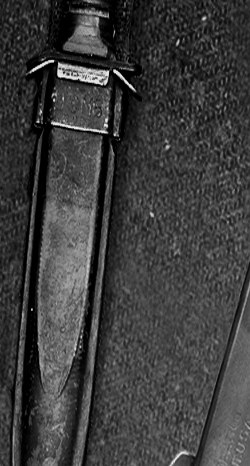
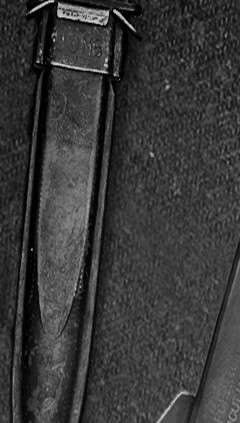
home screen: cleaner - flat ground, quiet photo details, one type block per card
No painting behind the cards any more (flat black; the photos are the only texture),
crops that show a detail with room around it (the grip, the helmet's curve, the
scabbard) instead of the whole object, one margin for everything (64 px at 1080p),
the type bottom-left of each card with an index top-left, a rule that grows under
the title on hover - no lift, no ticks, no icons, no description lines. Player as
plain text, the news as one line under the top rule, links and shortcuts in the
footer.

diff --git a/src/ui/home_menu.cpp b/src/ui/home_menu.cpp
@@ -9,10 +9,11 @@
 // screens take over, and this screen returns when they close). QUIT is our own
 // confirmation, then `quit`.
 //
-// Art: <game dir>\cod1reloaded\home\{bg,play,host,settings}.jpg - crops of the
-// game's own main-menu painting (pak0 ui/assets/main_back.tga: the Thompson, the
-// helmet, the first-aid pouch), desaturated. Every image is optional: a missing
-// file leaves a flat panel, nothing breaks.
+// Art: <game dir>\cod1reloaded\home\{play,host,settings}.jpg - quiet details cut
+// from the game's own main-menu painting (pak0 ui/assets/main_back.tga: the Thompson's
+// grip, the helmet's curve, the scabbard), desaturated. Every image is optional: a
+// missing file leaves a flat panel, nothing breaks. The ground is flat black - the
+// photos are the only texture on the screen.
 //
 // RESPONSIVE: one scale factor s = height / 1080 (height, not width: 1440x1080
 // stretched and 1920x1080 share it, so type and spacing stay identical between
@@ -123,93 +124,54 @@ void vgrad(float x, float y, float w, float h, float a1, int rows = 24) {
 
 // Small bordered key hint, e.g. [ CTRL+M ] label
 float keycap(float x, float y, const char* key, const char* label, float s) {
-    const float pad = 9 * s, h = 24 * s;
-    float kw = ui_text_width(px(12, s), 600, key) + pad * 2;
-    ui_rect_rounded(x, y, kw, h, 4 * s, 0xFF141414);
-    ui_rect_border(x, y, kw, h, 4 * s, 1.0f * s, 0xFF333333);
-    ui_text(x + pad, y + 4 * s, px(12, s), 600, UI_MUTED, key);
+    const float pad = 8 * s, h = 22 * s;
+    float kw = ui_text_width(px(11, s), 600, key) + pad * 2;
+    ui_rect_rounded(x, y, kw, h, 3 * s, 0xFF121212);
+    ui_rect_border(x, y, kw, h, 3 * s, 1.0f * s, 0xFF303030);
+    ui_text(x + pad, y + 3 * s, px(11, s), 600, UI_MUTED, key);
     float total = kw;
     if (label && *label) {
-        text_tracked(x + kw + 10 * s, y + 6 * s, px(11, s), 600, 0xFF6A6A6A, label, 1.6f * s);
-        total += 10 * s + tracked_width(px(11, s), 600, label, 1.6f * s);
+        text_tracked(x + kw + 10 * s, y + 6 * s, px(10, s), 600, 0xFF6A6A6A, label, 1.8f * s);
+        total += 10 * s + tracked_width(px(10, s), 600, label, 1.8f * s);
     }
     return total;
 }
 
-// the three glyphs, geometric and monochrome, drawn inside a thin diamond
-enum Glyph { G_PLAY, G_HOST, G_SETTINGS };
-void diamond(float cx, float cy, float r, float th, DWORD c) {
-    // a thin ring: the primitives have no rotated rectangle, and a ring reads as
-    // the same "marker" at this size
-    ui_ellipse(cx, cy, r, r, th, c);
-}
-void glyph(Glyph g, float cx, float cy, float s, float hv) {
-    const DWORD c = mixc(0xFFBDBDBD, UI_TEXT, hv);
-    const float r = 19 * s;
-    diamond(cx, cy, r, 1.2f * s, with_alpha(c, 0.55f + 0.45f * hv));
-    switch (g) {
-    case G_PLAY:      // a filled point: the objective
-        ui_rect_rounded(cx - 5 * s, cy - 5 * s, 10 * s, 10 * s, 5 * s, c);
-        break;
-    case G_HOST: {    // three bars: a rack
-        const float bw = 14 * s, bh = 2.5f * s;
-        ui_rect(cx - bw / 2, cy - 6 * s, bw, bh, c);
-        ui_rect(cx - bw / 2, cy - bh / 2, bw, bh, c);
-        ui_rect(cx - bw / 2, cy + 6 * s - bh, bw, bh, c);
-        break;
-    }
-    case G_SETTINGS:  // two rings: a dial
-        ui_ellipse(cx, cy, 9 * s, 9 * s, 1.6f * s, c);
-        ui_rect_rounded(cx - 2.5f * s, cy - 2.5f * s, 5 * s, 5 * s, 2.5f * s, c);
-        break;
-    }
-}
-
-// One card. Returns true on click.
-bool card(int idx, float x, float y, float w, float h, const char* img, Glyph g,
-          const char* title, const char* caption, const char* line1, const char* line2,
-          float ot, float s) {
-    // staggered entrance: each card 90 ms after the previous
-    const float delay = idx * 0.09f;
+// One card: a quiet photo detail, an index, one type block bottom-left, a rule that
+// grows under the title on hover. Nothing else. Returns true on click.
+bool card(int idx, float x, float y, float w, float h, const char* img,
+          const char* caption, const char* title, float ot, float s) {
+    // staggered entrance: fade + a short rise, each card 80 ms after the previous
+    const float delay = idx * 0.08f;
     float t = (ot - delay) / (1.0f - delay);
     t = t < 0 ? 0 : (t > 1 ? 1 : t);
     const float ease = t * t * (3 - 2 * t);
-    const float rise = (1 - ease) * 24 * s;
-    y += rise;
+    y += (1 - ease) * 14 * s;
     ui_alpha(ease);
 
     const bool over = hit(x, y, w, h);
-    const float hv = ui_smooth(7200 + idx, over ? 1.0f : 0.0f, 10.0f);
-    // hover: the card lifts a little and breathes
-    const float grow = 6 * s * hv;
-    x -= grow / 2; y -= grow; w += grow; h += grow;
+    const float hv = ui_smooth(7200 + idx, over ? 1.0f : 0.0f, 9.0f);
 
-    // photo (or a flat plate), then the scrim that carries the type
-    bool have = img && ui_image_cover(x, y, w, h, img);
-    if (!have) ui_rect(x, y, w, h, 0xFF101010);
-    ui_rect(x, y, w, h, with_alpha(0xFF000000, 0.42f - 0.30f * hv));      // dim, lifts on hover
-    vgrad(x, y + h * 0.35f, w, h * 0.65f, 0.92f);
-    // frame: hairline, brighter on hover; viewfinder ticks in the corners
-    ui_rect_border(x + 0.5f, y + 0.5f, w - 1, h - 1, 0, 1.0f * s, mixc(0x2EFFFFFF, 0xFFFFFFFF, hv));
-    {
-        const float a = 10 * s, th = 1.5f * s;
-        const DWORD c = mixc(0x70FFFFFF, 0xFFFFFFFF, hv);
-        ui_rect(x, y, a, th, c);                 ui_rect(x, y, th, a, c);
-        ui_rect(x + w - a, y, a, th, c);         ui_rect(x + w - th, y, th, a, c);
-        ui_rect(x, y + h - th, a, th, c);        ui_rect(x, y + h - a, th, a, c);
-        ui_rect(x + w - a, y + h - th, a, th, c); ui_rect(x + w - th, y + h - a, th, a, c);
-    }
-    // type block, anchored to the lower part
-    const float cx = x + w / 2;
-    float ty = y + h * 0.60f;
-    glyph(g, cx, ty, s, hv);
-    ty += 40 * s;
-    text_c(cx, ty, px(30, s), 600, mixc(0xFFE6E6E6, UI_TEXT, hv), title);
-    ty += 42 * s;
-    text_tracked_c(cx, ty, px(11, s), 600, mixc(0xFF8A8A8A, 0xFFC8C8C8, hv), caption, 2.2f * s);
-    ty += 30 * s;
-    text_c(cx, ty, px(13, s), 400, 0xFF7A7A7A, line1);
-    if (line2 && *line2) text_c(cx, ty + 19 * s, px(13, s), 400, 0xFF7A7A7A, line2);
+    if (!(img && ui_image_cover(x, y, w, h, img))) ui_rect(x, y, w, h, 0xFF0E0E0E);
+    ui_rect(x, y, w, h, with_alpha(0xFF000000, 0.55f - 0.35f * hv));   // sits back, lifts on hover
+    vgrad(x, y + h * 0.45f, w, h * 0.55f, 0.95f, 30);
+    ui_rect_border(x + 0.5f, y + 0.5f, w - 1, h - 1, 0, 1.0f * s, mixc(0x24FFFFFF, 0xE0FFFFFF, hv));
+
+    char num[4]; snprintf(num, sizeof(num), "%02d", idx + 1);
+    text_tracked(x + 24 * s, y + 22 * s, px(11, s), 600, mixc(0x50FFFFFF, 0xDFFFFFFF, hv), num, 2.0f * s);
+    text_tracked(x + 24 * s, y + h - 84 * s, px(10, s), 600, mixc(0xFF969696, 0xFFD2D2D2, hv), caption, 2.4f * s);
+    ui_text(x + 24 * s, y + h - 66 * s, px(34, s), 600, UI_TEXT, title);
+    ui_rect(x + 24 * s, y + h - 24 * s, (w - 48 * s) * hv, 1.5f * s, UI_ACCENT);
+    return over && ui_input().clicked;
+}
+
+// a tracked text link with a rule that grows on hover; returns true on click
+bool link(long key, float x, float y, const char* label, float s) {
+    const float lw = tracked_width(px(10, s), 600, label, 1.8f * s);
+    const bool over = hit(x - 8 * s, y - 10 * s, lw + 16 * s, 30 * s);
+    const float hv = ui_smooth(key, over ? 1.f : 0.f, 12.f);
+    text_tracked(x, y, px(10, s), 600, mixc(0xFF6A6A6A, UI_TEXT, hv), label, 1.8f * s);
+    ui_rect(x, y + 17 * s, lw * hv, 1, UI_ACCENT);
     return over && ui_input().clicked;
 }
 
@@ -245,58 +207,60 @@ HomeAction home_menu_draw(float sw, float sh) {
     if (nowt - s_lastdraw > 250) { ui_anim_set(7000, 0.0f); g_confirm_quit = false; }
     s_lastdraw = nowt;
     const float ot = ui_smooth(7000, 1.0f, 4.5f);
+    const float M = 64 * s;                     // one margin for everything
 
-    // ---- ground: the painting, desaturated and pushed back, then a vignette
+    // ---- ground: flat. The photos are the only texture on this screen.
     ui_alpha(1.0f);
-    char path[MAX_PATH];
-    bool have_bg = home_asset("bg.jpg", path, sizeof(path)) && ui_image_cover(0, 0, sw, sh, path);
-    if (!have_bg) ui_rect(0, 0, sw, sh, UI_BG);
-    ui_rect(0, 0, sw, sh, have_bg ? 0x9E000000 : 0x00000000);
-    vgrad(0, sh * 0.55f, sw, sh * 0.45f, 0.85f, 20);
-    // top band
-    for (int i = 0; i < 12; ++i) {
-        const float f = 1.0f - (float)i / 12;
-        ui_rect(0, i * (90 * s / 12), sw, 90 * s / 12 + 1, with_alpha(0xFF000000, f * f * 0.7f));
-    }
+    ui_rect(0, 0, sw, sh, UI_BG);
 
-    // ---- wordmark, top-left: CALL OF DUTY  [1.6X]
+    // ---- top bar: wordmark left, player right, a rule
     ui_alpha(ot);
     {
-        const float x = 48 * s, y = 26 * s;
-        ui_text(x, y, px(28, s), 600, UI_TEXT, "CALL OF DUTY");
-        const float tw = ui_text_width(px(28, s), 600, "CALL OF DUTY");
-        const float bx = x + tw + 14 * s, bw = ui_text_width(px(22, s), 600, "1.6X") + 22 * s;
-        ui_rect_rounded(bx, y + 3 * s, bw, 34 * s, 3 * s, UI_ACCENT);
-        ui_text(bx + 11 * s, y + 6 * s, px(22, s), 600, 0xFF0A0A0A, "1.6X");
-    }
-    // ---- player plate, top-right
-    {
-        char name[64]; plain_name(name, sizeof(name));
-        const float ph = 44 * s, pw = 260 * s, x = sw - 48 * s - pw, y = 22 * s;
-        ui_rect_rounded(x, y, pw, ph, 3 * s, 0xB0101010);
-        ui_rect_border(x + 0.5f, y + 0.5f, pw - 1, ph - 1, 3 * s, 1.0f * s, 0x33FFFFFF);
-        ui_rect(x, y, 3 * s, ph, UI_ACCENT);
-        // avatar square with a "?" - a rank/avatar placeholder
-        ui_rect_rounded(x + 12 * s, y + 7 * s, 30 * s, 30 * s, 2 * s, 0xFF1E1E1E);
-        ui_rect_border(x + 12 * s, y + 7 * s, 30 * s, 30 * s, 2 * s, 1.0f * s, 0x40FFFFFF);
-        text_c(x + 27 * s, y + 9 * s, px(18, s), 600, UI_MUTED, "?");
-        text_tracked(x + 54 * s, y + 7 * s, px(10, s), 600, 0xFF8A8A8A, "PLAYER", 2.0f * s);
-        ui_text(x + 54 * s, y + 20 * s, px(14, s), 600, UI_TEXT, name);
-    }
-    ui_rect(0, 90 * s, sw, 1, 0x1EFFFFFF);
+        const float y = 40 * s;
+        ui_text(M, y, px(22, s), 600, UI_TEXT, "CALL OF DUTY");
+        const float tw = ui_text_width(px(22, s), 600, "CALL OF DUTY");
+        const float bx = M + tw + 12 * s, bw = ui_text_width(px(16, s), 600, "1.6X") + 18 * s;
+        ui_rect_rounded(bx, y + 3 * s, bw, 26 * s, 2 * s, UI_ACCENT);
+        ui_text(bx + 9 * s, y + 4 * s, px(16, s), 600, 0xFF0A0A0A, "1.6X");
 
-    // ---- the cards
-    const float cw = 300 * s, ch = 560 * s, gap = 54 * s;
-    float x0 = (sw - (cw * 3 + gap * 2)) / 2;
-    const float cy = 150 * s;
+        char name[64]; plain_name(name, sizeof(name));
+        const float wn = ui_text_width(px(14, s), 600, name);
+        const float wp = tracked_width(px(10, s), 600, "PLAYER", 2.0f * s);
+        text_tracked(sw - M - wn - 14 * s - wp, y + 8 * s, px(10, s), 600, 0xFF464646, "PLAYER", 2.0f * s);
+        ui_text(sw - M - wn, y + 4 * s, px(14, s), 600, UI_TEXT, name);
+        ui_rect(M, 96 * s, sw - 2 * M, 1, 0x18FFFFFF);
+    }
+
+    // ---- news line, under the rule
+    {
+        char nt[64], nx[128], nu[256];
+        if (news_get(nt, sizeof(nt), nx, sizeof(nx), nu, sizeof(nu))) {
+            for (char* c = nt; *c; ++c) *c = (char)toupper((unsigned char)*c);
+            const float y = 118 * s;
+            const float pulse = 0.55f + 0.45f * sinf(nowt * 0.0045f);
+            float x = M;
+            ui_ellipse(x + 3 * s, y + 7 * s, 3 * s * (1.5f + pulse), 3 * s * (1.5f + pulse), 1.0f,
+                       with_alpha(0xFFFFFFFF, 0.22f * pulse));
+            ui_rect_rounded(x, y + 4 * s, 6 * s, 6 * s, 3 * s, UI_ACCENT);
+            x += 16 * s;
+            text_tracked(x, y, px(10, s), 600, UI_ACCENT, nt, 2.4f * s);
+            x += tracked_width(px(10, s), 600, nt, 2.4f * s) + 18 * s;
+            if (nx[0]) { ui_text(x, y - 2 * s, px(13, s), 400, 0xFF969696, nx); x += ui_text_width(px(13, s), 400, nx) + 18 * s; }
+            if (nu[0]) text_tracked(x, y + 1 * s, px(10, s), 600, 0xFF464646, "CTRL + N", 1.8f * s);
+        }
+    }
+
+    // ---- the cards, centred in the free height
+    const float cw = 340 * s, ch = 600 * s, gap = 40 * s;
+    const float x0 = (sw - (cw * 3 + gap * 2)) / 2;
+    const float cy = (sh - ch) / 2 + 20 * s;
     HomeAction result = HomeAction::None;
     char play[MAX_PATH], host[MAX_PATH], sett[MAX_PATH];
     const char* pplay = home_asset("play.jpg", play, sizeof(play)) ? play : nullptr;
     const char* phost = home_asset("host.jpg", host, sizeof(host)) ? host : nullptr;
     const char* psett = home_asset("settings.jpg", sett, sizeof(sett)) ? sett : nullptr;
 
-    if (card(0, x0, cy, cw, ch, pplay, G_PLAY, "PLAY", "ENTER THE BATTLEFIELD",
-             "Browse the 1.6X servers and join", "a match.", ot, s) && !g_confirm_quit) {
+    if (card(0, x0, cy, cw, ch, pplay, "JOIN A MATCH", "PLAY", ot, s) && !g_confirm_quit) {
         // NO "close main" (2026-08-15): forwarded from outside the menu VM it corrupts
         // the UI stack and "open joinserver" silently fails; joinserver is fullscreen
         // and covers main regardless.
@@ -304,79 +268,44 @@ HomeAction home_menu_draw(float sw, float sh) {
         logger::logf("home_menu: PLAY -> open joinserver");
         result = HomeAction::Navigated;
     }
-    if (card(1, x0 + cw + gap, cy, cw, ch, phost, G_HOST, "HOST", "RUN YOUR OWN MATCH",
-             "Start a server on this machine", "for friends or practice.", ot, s) && !g_confirm_quit) {
+    if (card(1, x0 + cw + gap, cy, cw, ch, phost, "RUN A SERVER", "HOST", ot, s) && !g_confirm_quit) {
         cmdf("close mods_menu\nclose options_multi\nopen createserver\n");
         logger::logf("home_menu: HOST -> open createserver");
         result = HomeAction::Navigated;
     }
-    if (card(2, x0 + (cw + gap) * 2, cy, cw, ch, psett, G_SETTINGS, "SETTINGS", "CHANGE YOUR OPTIONS",
-             "Display, mouse, netcode, PAM,", "textures and demos.", ot, s) && !g_confirm_quit) {
+    if (card(2, x0 + (cw + gap) * 2, cy, cw, ch, psett, "DISPLAY, MOUSE, NETCODE", "SETTINGS", ot, s) && !g_confirm_quit)
         result = HomeAction::OpenSettings;
-    }
 
-    // ---- news line, under the cards
-    {
-        char nt[64], nx[128], nu[256];
-        if (news_get(nt, sizeof(nt), nx, sizeof(nx), nu, sizeof(nu))) {
-            ui_alpha(ot);
-            for (char* c = nt; *c; ++c) *c = (char)toupper((unsigned char)*c);
-            const float y = cy + ch + 34 * s;
-            const float pulse = 0.55f + 0.45f * sinf(nowt * 0.0045f);
-            char line[256];
-            snprintf(line, sizeof(line), "%s", nx);
-            const int fe = px(11, s), fx = px(14, s);
-            const float we = tracked_width(fe, 600, nt, 2.4f * s), wx = ui_text_width(fx, 400, line);
-            const float wh = nu[0] ? tracked_width(px(10, s), 600, "CTRL + N", 1.8f * s) : 0;
-            const float total = 10 * s + 14 * s + we + 22 * s + wx + (nu[0] ? 22 * s + wh : 0);
-            float x = (sw - total) / 2;
-            const float cyy = y + fe * 0.7f;
-            ui_ellipse(x + 5 * s, cyy, 5 * s * (1.4f + 0.8f * pulse), 5 * s * (1.4f + 0.8f * pulse), 1.0f,
-                       with_alpha(0xFFFFFFFF, 0.25f * pulse));
-            ui_rect_rounded(x + 2 * s, cyy - 3 * s, 6 * s, 6 * s, 3 * s, UI_ACCENT);
-            x += 10 * s + 14 * s;
-            text_tracked(x, y, fe, 600, UI_ACCENT, nt, 2.4f * s); x += we + 22 * s;
-            ui_text(x, y - 2 * s, fx, 400, 0xFFB0B0B0, line);     x += wx;
-            if (nu[0]) { x += 22 * s; text_tracked(x, y + 1 * s, px(10, s), 600, UI_MUTED, "CTRL + N", 1.8f * s); }
-        }
-    }
-
-    // ---- footer
+    // ---- footer: version + the engine's own screens on the left, shortcuts on the right
     ui_alpha(ot);
     {
+        const float fy = sh - 40 * s;
+        ui_rect(M, sh - 72 * s, sw - 2 * M, 1, 0x18FFFFFF);
         char ver[48]; snprintf(ver, sizeof(ver), "1.6X  %s", COD1RELOADED_VERSION);
-        ui_rect(0, sh - 58 * s, sw, 1, 0x1EFFFFFF);
-        ui_text(48 * s, sh - 40 * s, px(12, s), 400, 0xFF5A5A5A, ver);
-        // the engine's own screens the cards do not cover: key bindings live in the
-        // vanilla Options, and Mods is where fs_game is switched. Tracked text links.
-        {
-            float lx = 48 * s + ui_text_width(px(12, s), 400, ver) + 40 * s;
-            const char* links[2] = { "GAME OPTIONS", "MODS" };
-            const char* cmds[2]  = { "close mods_menu\nopen options_multi\n", "close options_multi\nopen mods_menu\n" };
-            for (int i = 0; i < 2; ++i) {
-                const float lw = tracked_width(px(11, s), 600, links[i], 1.8f * s);
-                const bool over = hit(lx - 8 * s, sh - 46 * s, lw + 16 * s, 34 * s);
-                const float hv = ui_smooth(7400 + i, over ? 1.f : 0.f, 12.f);
-                text_tracked(lx, sh - 38 * s, px(11, s), 600, mixc(0xFF6A6A6A, UI_TEXT, hv), links[i], 1.8f * s);
-                ui_rect(lx, sh - 22 * s, lw * hv, 1, UI_ACCENT);
-                if (over && ui_input().clicked && !g_confirm_quit) {
-                    cmdf("%s", cmds[i]);
-                    logger::logf("home_menu: %s", links[i]);
-                    result = HomeAction::Navigated;
-                }
-                lx += lw + 34 * s;
-            }
+        ui_text(M, fy - 3 * s, px(12, s), 400, 0xFF464646, ver);
+        // key bindings live in the vanilla Options, fs_game in Mods: the cards do not
+        // cover them, these links do
+        float lx = M + ui_text_width(px(12, s), 400, ver) + 40 * s;
+        if (link(7400, lx, fy, "GAME OPTIONS", s) && !g_confirm_quit) {
+            cmdf("close mods_menu\nopen options_multi\n");
+            logger::logf("home_menu: GAME OPTIONS");
+            result = HomeAction::Navigated;
         }
-        float fx = sw - 48 * s;
-        // right-aligned run: [ESC] QUIT   [CTRL+M] SETTINGS
-        const float w_quit = ui_text_width(px(12, s), 600, "ESC") + 18 * s + 10 * s + tracked_width(px(11, s), 600, "QUIT", 1.6f * s);
+        lx += tracked_width(px(10, s), 600, "GAME OPTIONS", 1.8f * s) + 32 * s;
+        if (link(7401, lx, fy, "MODS", s) && !g_confirm_quit) {
+            cmdf("close options_multi\nopen mods_menu\n");
+            logger::logf("home_menu: MODS");
+            result = HomeAction::Navigated;
+        }
+        float fx = sw - M;
+        const float w_quit = ui_text_width(px(11, s), 600, "ESC") + 16 * s + 10 * s + tracked_width(px(10, s), 600, "QUIT", 1.8f * s);
         fx -= w_quit;
-        const bool over_quit = hit(fx - 8 * s, sh - 46 * s, w_quit + 16 * s, 34 * s);
-        keycap(fx, sh - 41 * s, "ESC", "QUIT", s);
+        const bool over_quit = hit(fx - 8 * s, fy - 12 * s, w_quit + 16 * s, 34 * s);
+        keycap(fx, fy - 6 * s, "ESC", "QUIT", s);
         if (over_quit && ui_input().clicked) g_confirm_quit = true;
-        const float w_set = ui_text_width(px(12, s), 600, "CTRL+M") + 18 * s + 10 * s + tracked_width(px(11, s), 600, "SETTINGS", 1.6f * s);
-        fx -= 34 * s + w_set;
-        keycap(fx, sh - 41 * s, "CTRL+M", "SETTINGS", s);
+        const float w_set = ui_text_width(px(11, s), 600, "CTRL+M") + 16 * s + 10 * s + tracked_width(px(10, s), 600, "SETTINGS", 1.8f * s);
+        fx -= 32 * s + w_set;
+        keycap(fx, fy - 6 * s, "CTRL+M", "SETTINGS", s);
     }
 
     // ---- quit confirmation
